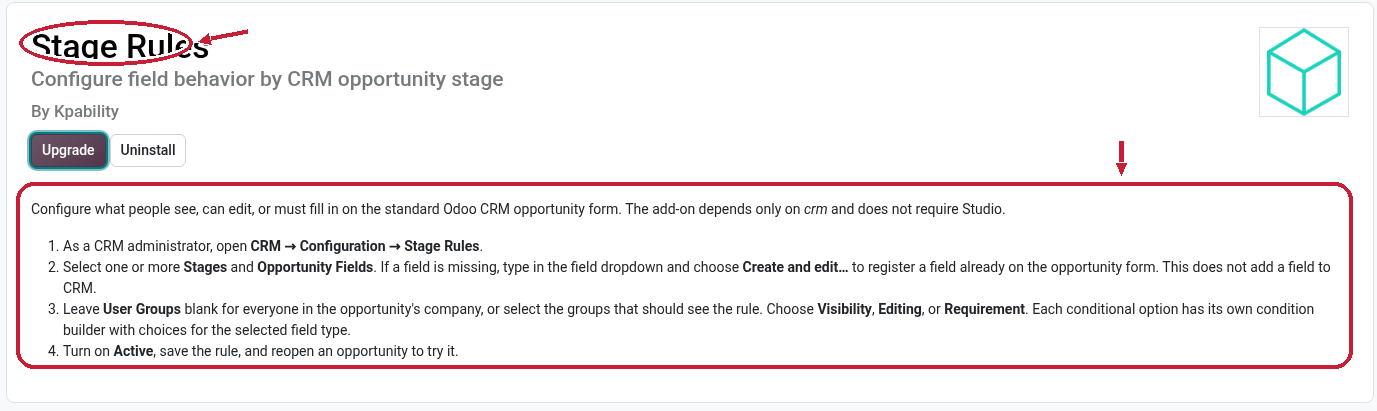
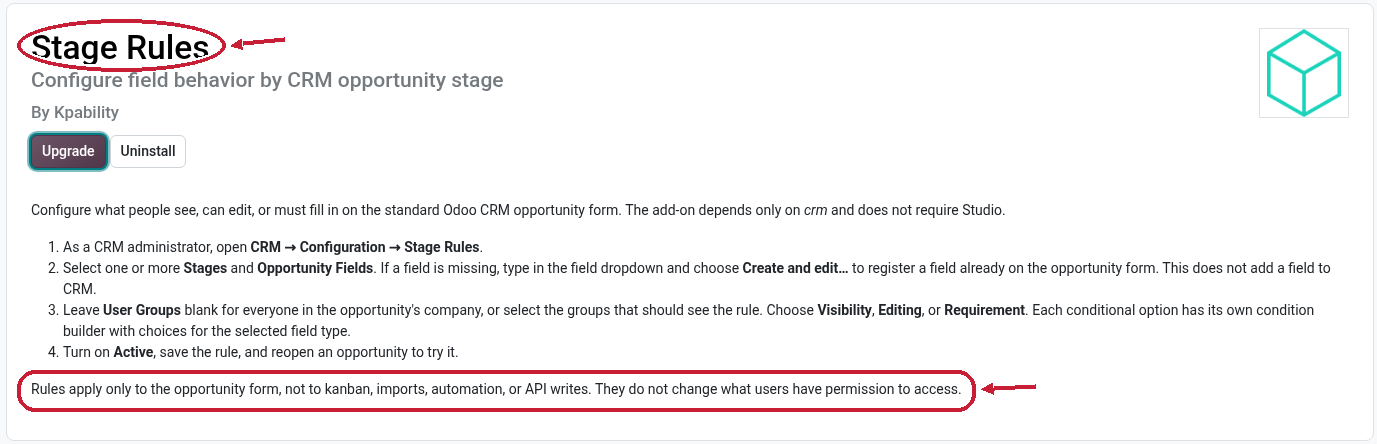
docs: retain the stage rules scope note

diff --git a/kpability_stage_rules/tests/e2e/test_stage_rules.py b/kpability_stage_rules/tests/e2e/test_stage_rules.py
@@ -282,7 +282,7 @@ class StageRulesBrowserTests(unittest.TestCase):
     def capture(self, page, name):
         page.screenshot(path=str(self.output / f"{name}.png"), full_page=True, animations="disabled")
 
-    def test_apps_description_shows_only_setup(self):
+    def test_apps_description_keeps_setup_and_scope(self):
         [module] = self.call("ir.module.module", "search_read", [[
             ["name", "=", "kpability_stage_rules"],
         ]], fields=["id"])
@@ -290,10 +290,14 @@ class StageRulesBrowserTests(unittest.TestCase):
         description = page.locator(".o_field_widget[name='description_html']")
         expect(description.get_by_text("Configure what people see", exact=False)).to_be_visible()
         expect(description.locator("li")).to_have_count(4)
+        expect(description.get_by_text(
+            "Rules apply only to the opportunity form, not to kanban, imports, automation, or API writes.",
+            exact=False,
+        )).to_be_visible()
         expect(description).not_to_contain_text("# Stage Rules")
         expect(description).not_to_contain_text("For example")
         expect(description).not_to_contain_text("Stage Rules development and testing")
-        self.capture(page, "10-apps-description-setup-only")
+        self.capture(page, "10-apps-description-setup-and-scope")
 
     def test_stage_preview_required_save_discard_and_native_won(self):
         lead = self.opportunity(self.intake, priority="3", campaign_id=self.campaign)

diff --git a/kpability_stage_rules/docs/evidence/README.md b/kpability_stage_rules/docs/evidence/README.md
@@ -1,6 +1,6 @@
 # Stage Rules verification evidence
 
-Screenshots are from a passing local Odoo 20 Enterprise run in Brave (Chromium `156.0.8078.80`) via Playwright `1.65.0` over remote debugging. All records shown are synthetic. All eight browser cases passed in both editions; Community ran without the optional Pipeline Categories and Won Reasons modules. Annotated copies add red circles and arrows; the originals are linked below. See the [verification guide](../stage-rules.md#verification) for the exact Odoo builds and commands.
+Screenshots are from passing local Odoo 20 Enterprise runs in Brave (Chromium `156.0.8078.80`) via Playwright `1.65.0` over remote debugging. All records shown are synthetic. All eight browser cases passed in both editions, and the Apps description was retested on both after restoring the scope note. Community ran without the optional Pipeline Categories and Won Reasons modules. Annotated copies add red circles and arrows; the originals are linked below. See the [verification guide](../stage-rules.md#verification) for the exact Odoo builds and commands.
 
 | Case | Passed checks | Screenshots |
 | --- | --- | --- |
@@ -11,7 +11,7 @@ Screenshots are from a passing local Odoo 20 Enterprise run in Brave (Chromium `
 | SR-05 · Native compatibility | An unconfigured stage retains native autosave before Lost. With merged Pipeline Categories and Won Reasons installed, submitting the Won wizard saves the selected reason, moves to the mapped Won stage, and preserves Expected Closing. | [Unconfigured form](06-unconfigured-stage-is-native.png) · [Won reason selected](03-merged-won-reasons-wizard.png) |
 | SR-06 · Independent conditions | A standard field and a registered custom field respond to separate Visibility, Editing, and Requirement conditions with unsaved Campaign, Medium, and Source values. | [Both fields required](08-registered-field-and-independent-conditions.png) · [Annotated](annotated/SR06-live-conditions.png) |
 | SR-07 · Native field modifiers | Native read-only still prevents editing, and a stage rule cannot bypass a native requirement by hiding an empty field. Save explains the conflict and preserves the draft. | [Read-only field](09a-native-readonly-still-applies.png) · [Native requirement warning](09-hidden-native-required-field-blocks-save.png) · Annotated: [read-only](annotated/SR07-native-readonly.png), [required](annotated/SR07-native-required.png) |
-| SR-08 · Apps description | The Apps description has one native title, a short overview, and four setup steps, without a second title, example, or development link. | [Apps description](10-apps-description-setup-only.png) · [Annotated](annotated/SR08-apps-description.png) |
+| SR-08 · Apps description | The Apps description has one native title, a short overview, four setup steps, and the opportunity-form scope note. It has no duplicate title, example, or development link. | [Apps description](10-apps-description-setup-and-scope.png) · [Annotated](annotated/SR08-apps-description.png) |
 
 **Model tests:** 7/7 Stage Rules cases passed on Community and Enterprise. Cases cover existing-field registration, typed condition validation, inactive configuration, company and effective group scoping, manager-only configuration, and unchanged direct opportunity writes.
 

diff --git a/kpability_stage_rules/README.md b/kpability_stage_rules/README.md
@@ -4,3 +4,5 @@ Configure what people see, can edit, or must fill in on the standard Odoo CRM op
 2. Select one or more **Stages** and **Opportunity Fields**. If a field is missing, type in the field dropdown and choose **Create and edit…** to register a field already on the opportunity form. This does not add a field to CRM.
 3. Leave **User Groups** blank for everyone in the opportunity's company, or select the groups that should see the rule. Choose **Visibility**, **Editing**, or **Requirement**. Each conditional option has its own condition builder with choices for the selected field type.
 4. Turn on **Active**, save the rule, and reopen an opportunity to try it.
+
+Rules apply only to the opportunity form, not to kanban, imports, automation, or API writes. They do not change what users have permission to access.
